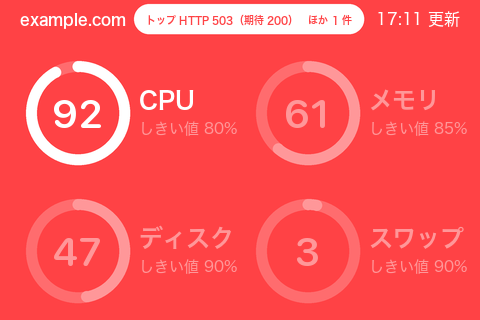
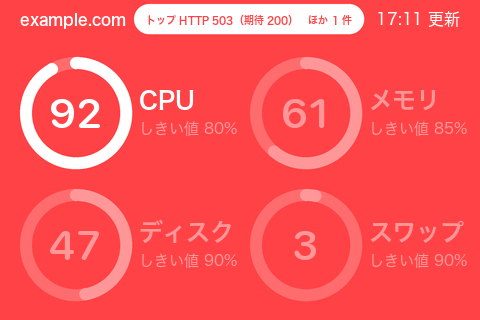
feat: Claude の画面の 5時間と週次の間を広げ、この Mac の状態の画面の隙間を詰めてリングを大きくする
- Claude（pace）: 2 段の間を 18→30 px（3.5 インチ）に
- この Mac の状態（横置き）: 横の隙間を詰めて、リングを半径 52→56・数字 40→42 に
ユーザーの指示。docs/handover.md §4-26。

diff --git a/claude_usage_display/monitor_screen.py b/claude_usage_display/monitor_screen.py
@@ -102,9 +102,13 @@ LANDSCAPE = _Layout(
     # 2026-11-03、ユーザーの指示「3.5 モニターの罫線は消してその分項目を大きくして」で、縦横の罫線を消し、名前を
     # 22→24・数字を 38→40 にした。リングは横幅で大きさが決まる（左の列のしきい値の右端 238 と、右の列のリングの
     # 左端 256 の間は 18）ので変えていない。「ディスク」（24 ピクセルで幅 95）の右端は 234、「100」（40 で幅 75）は
-    # リングの内側（82）に収まる
-    cells=((20, 44), (250, 44), (20, 182), (250, 182)), ring=(58, 69, 52, 11), label=(119, 65, "ls", 24),
-    number=(58, 84, 40, 0, True), threshold=(119, 90, "ls", 15), dividers=())
+    # リングの内側（82）に収まる。
+    # 続けて、ユーザーの指示「隙間がまだある。隙間を調整してサークルを大きくしたい」で、リングの左端を見出しの左端（20）
+    # にそろえ、リングと名前の間を 9→7、左の列の文字と右の列のリングの間を 18→12 に詰めて、リングを半径 52→56・
+    # 太さ 11→12・数字 40→42 にした（同日）。下の段は 182→176 に上げた（上下の段のリングの間 20・下の余白 19）。
+    # 「100」（42 で幅 79）はリングの内側（88）に収まる
+    cells=((20, 44), (250, 44), (20, 176), (250, 176)), ring=(56, 69, 56, 12), label=(119, 65, "ls", 24),
+    number=(56, 84, 42, 0, True), threshold=(119, 90, "ls", 15), dividers=())
 PORTRAIT = _Layout(
     size=(320, 480), inset=16, title_baseline=26, pill=(16, 38, 304, 70), status_baseline=60, dot_y=53.5,
     # 監視の状態は、実機を見たユーザーの指示で大きくした（2026-10-11。文言 13→18、帯の中 15→18）。

diff --git a/claude_usage_display/pace.py b/claude_usage_display/pace.py
@@ -27,13 +27,15 @@ MARGIN = 60          # 左右の余白
 # 下の行 46→50 にした（2026-11-03、ユーザーの指示「3.5 モニターの罫線は消してその分項目を大きくして」）。
 # それまでの経緯: 数字 140→110・% 50→40・下の行 36→46（同日、「使用量の数値をもう少し小さくして、その分リセットと
 # あとを大きく」）、% 70→50（同日、「% はもう少し小さく」）
-ROWS = (84, 398)     # 2 段の上端
+# 5時間と週次の間を広げた（約 15→27 px（3.5 インチ）。同日、ユーザーの指示「5時間と週次を隙間を空けたい」）。
+# 1 段目を 84→76 に上げ、2 段目を 398→412 に下げ、下の行を 290→284 に上げて画面の下に収めた
+ROWS = (76, 412)     # 2 段の上端
 NAME = (70, 56)      # 名前の基準線（段の上端から）・大きさ
 NUMBER = (122, 120)  # 数字の基準線・大きさ
 UNIT = 44            # 「%」の大きさ
 UNIT_GAP = 4         # 数字と「%」の間
 BAR = (156, 212)     # 棒の上端と下端
-LINE = (290, 50)     # 下の行の基準線・大きさ（収まらなければ LINE_MIN まで縮める）
+LINE = (284, 50)     # 下の行の基準線・大きさ（収まらなければ LINE_MIN まで縮める）
 LINE_MIN = 36
 LINE_GAP = 32        # 下の行の、リセットと残り時間の間に残す幅
 # 見出しの右の時刻の大きさ（3.5 インチの寸法）。となりのこの Mac の状態の画面（monitor_screen の横置き、16）に

diff --git a/tests/test_monitor_screen.py b/tests/test_monitor_screen.py
@@ -75,7 +75,7 @@ class MonitorScreenTest(unittest.TestCase):
         threshold_x, _, _, threshold_size = ms.LANDSCAPE.threshold
         end = ms.LANDSCAPE.cells[0][0] + threshold_x + font(threshold_size, SMALL_WEIGHT).getlength("しきい値 85%")
         self.assertEqual(ms.LANDSCAPE.dividers, ())
-        self.assertLess(end, right_ring_left() - 12)
+        self.assertLessEqual(end, right_ring_left() - 12)
 
     def test_landscape_detail_stays_gray_and_the_number_has_no_percent_sign(self):
         # 2026-10-27、視認性を上げるため、しきい値を 14→15 ピクセルにし、% を外して数字を 30→38 にした。

diff --git a/docs/handover.md b/docs/handover.md
@@ -518,6 +518,9 @@ scripts/uninstall-launch-agent.sh                                 # 自動起動
 - **3.5 インチの 2 台の罫線も消した**（同日、ユーザーの指示「3.5 モニターの罫線は消してその分項目を大きくして」）
   - この Mac の状態の画面（`monitor_screen.LANDSCAPE`。3.5 インチのサーバーの状態の画面と共通）: 縦横の罫線を消し、名前を 22→24 px・数字を 38→40 px にした。リングは横幅で大きさが決まる（左の列のしきい値の右端 238 と右の列のリングの左端 256 の間が 18）ので変えていない。テストの境目は、罫線の位置（240）から「右の列のリングの左端から 12 手前」に替えた。README の横置きの 5 枚を描き直した（見出しは変わらない）
   - Claude の画面（`pace`）: 2 段の間の罫線を消し、段の間と下の余白を詰めて、名前 52→56・数字 110→120・% 40→44・棒の太さ 46→56・下の行 46→50 にした（5.2 インチの寸法）。この画面は高さの比で縮めるので、横の狭い 3.5 インチでは週次の日時と残り時間がくっついた。そこで下の行は、2 段とも左右の間に 32（5.2 インチの寸法）を残して収まる大きさにそろえて縮める（下限 36）。3.5 インチでは 21〜22 px（週次の日付が長いとき 20 px）
+- **続けて隙間を調整した**（同日、ユーザーの指示「claude: 5時間と週次を隙間を空けたい」「macmini: 隙間がまだある。隙間を調整してサークルを大きくしたい」）
+  - Claude: 段の上端を 84・398 → 76・412、下の行の基準線を 290→284 にし、5時間の段と週次の段の間を 18→30 px（3.5 インチの画素で測った）に広げた。画面の下の余白は 11→8 px
+  - Mac mini（横置き）: リングの左端を見出しの左端（20）にそろえ、リングと名前の間を 9→7、左の列の文字と右の列のリングの間を 18→12 に詰めて、リングを半径 52→56（外径 104→112 px）・太さ 11→12・数字 40→42 にした。下の段を 182→176 に上げた（上下の段のリングの間 20・下の余白 18 px）。5.2 インチの画面は変わらないことを確かめた
 
 ## 5. 残っている作業（上から順に）
 
